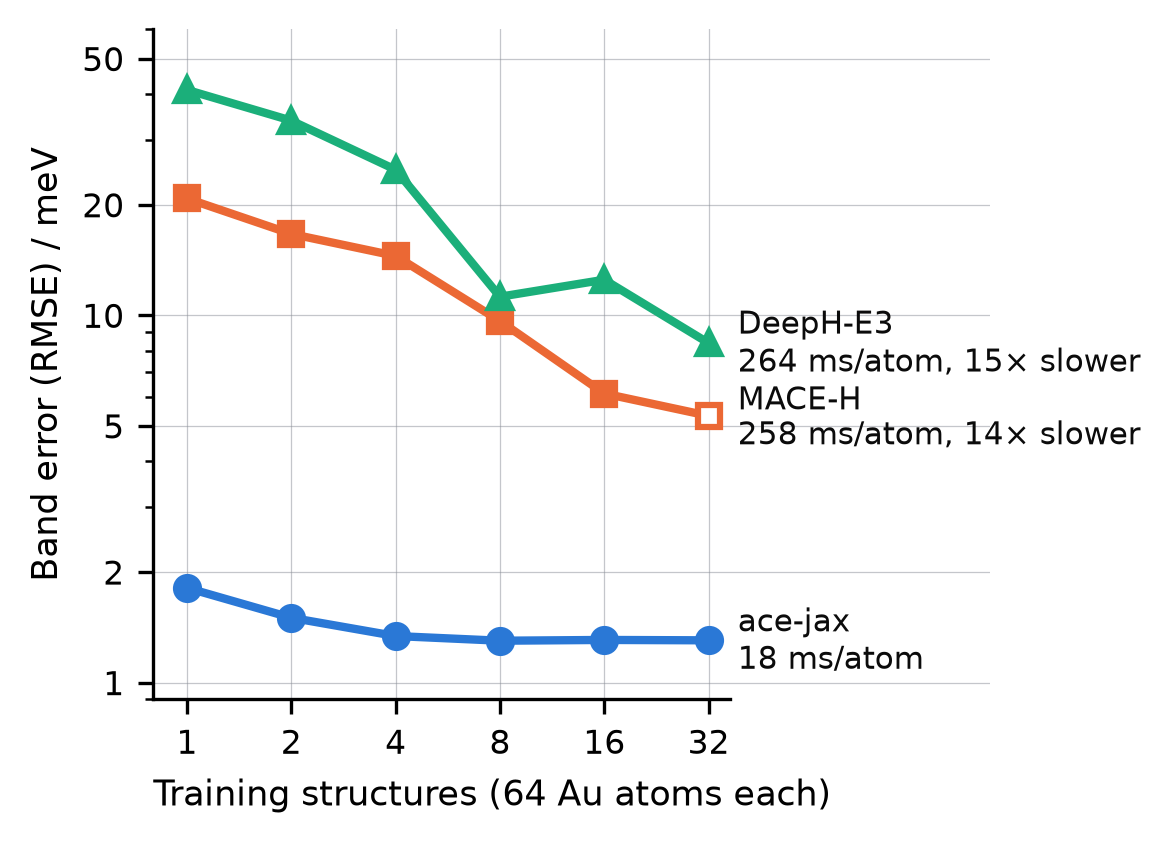
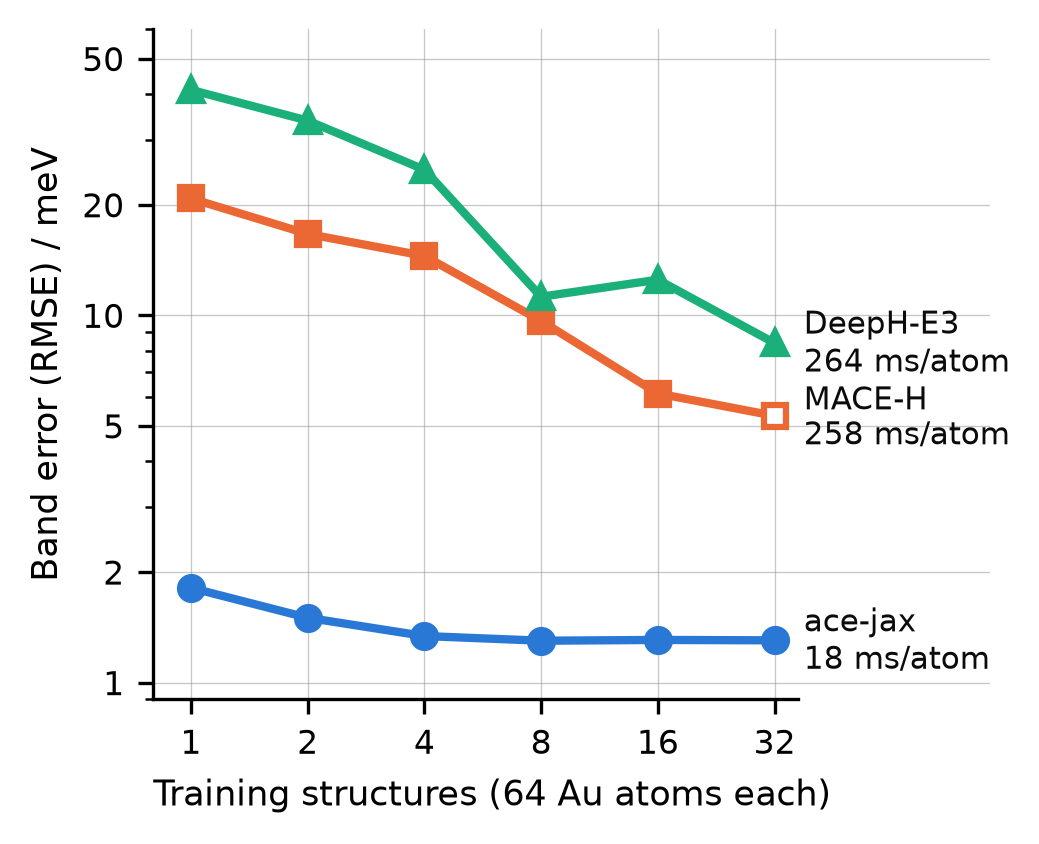
bench(ham): proposal figure without the speed-up factors in the labels

diff --git a/bench/ham/gold_proposal.py b/bench/ham/gold_proposal.py
@@ -1,6 +1,6 @@
 """One-panel figure of the gold comparison for a proposal: band error against the number of
 training structures for the largest ace-jax model, MACE-H and DeepH-E3, each line labelled with
-its one-core prediction cost (the speed-up without a second panel or axis).
+its one-core prediction cost (no second panel or axis).
     python bench/ham/gold_proposal.py <ace grid.jsonl> <other codes.jsonl> <timings.json> <figure stem> [nmax=32] [metric=aligned_rmse]
 Writes <stem>.png and <stem>.pdf.  A run listed in UNCONVERGED is drawn with an open marker."""
 import json
@@ -39,13 +39,12 @@ for name, col, mk, d, t in series:
     a.plot(n, [d[i] for i in n], color=col, lw=2, zorder=2)
     for i in n:
         a.plot([i], [d[i]], color=col, marker=mk, ms=5.5, mfc=SURF if (name, i) in UNCONVERGED else col, mew=1.5, zorder=3)
-    speed = "" if name == "ace-jax" else f", {t / t_ace:.0f}× slower"
-    a.annotate(f"{name}\n{t:.0f} ms/atom{speed}", (n[-1], d[n[-1]]), xytext=(7, 0), textcoords="offset points", va="center", fontsize=7.5, color=INK, linespacing=1.15)
+    a.annotate(f"{name}\n{t:.0f} ms/atom", (n[-1], d[n[-1]]), xytext=(7, 0), textcoords="offset points", va="center", fontsize=7.5, color=INK, linespacing=1.15)
 a.set_xscale("log", base=2); a.set_yscale("log")
 ns = sorted(big)
 a.set_xticks(ns); a.set_xticklabels([str(n) for n in ns]); a.xaxis.set_minor_formatter(NullFormatter())
 a.set_yticks([1, 2, 5, 10, 20, 50]); a.yaxis.set_major_formatter(FuncFormatter(lambda v, _: f"{v:g}")); a.yaxis.set_minor_formatter(NullFormatter())
-a.set_xlim(ns[0] * 0.8, ns[-1] * 6.5); a.set_ylim(0.9, 60)
+a.set_xlim(ns[0] * 0.8, ns[-1] * 3.6); a.set_ylim(0.9, 60)
 a.set_xlabel("Training structures (64 Au atoms each)", fontsize=8.5, loc="left"); a.set_ylabel("Band error (RMSE) / meV", fontsize=8.5)
 a.tick_params(labelsize=8)
 a.grid(True, which="major", color=MUTED, lw=0.3, alpha=0.5)
